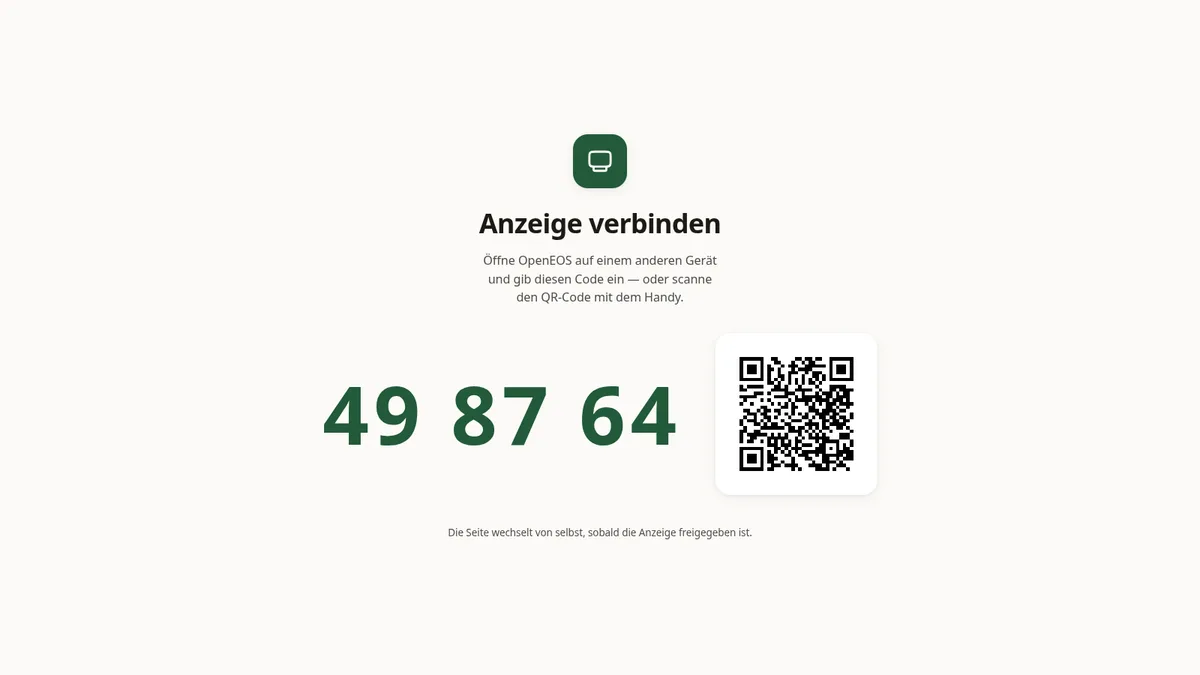
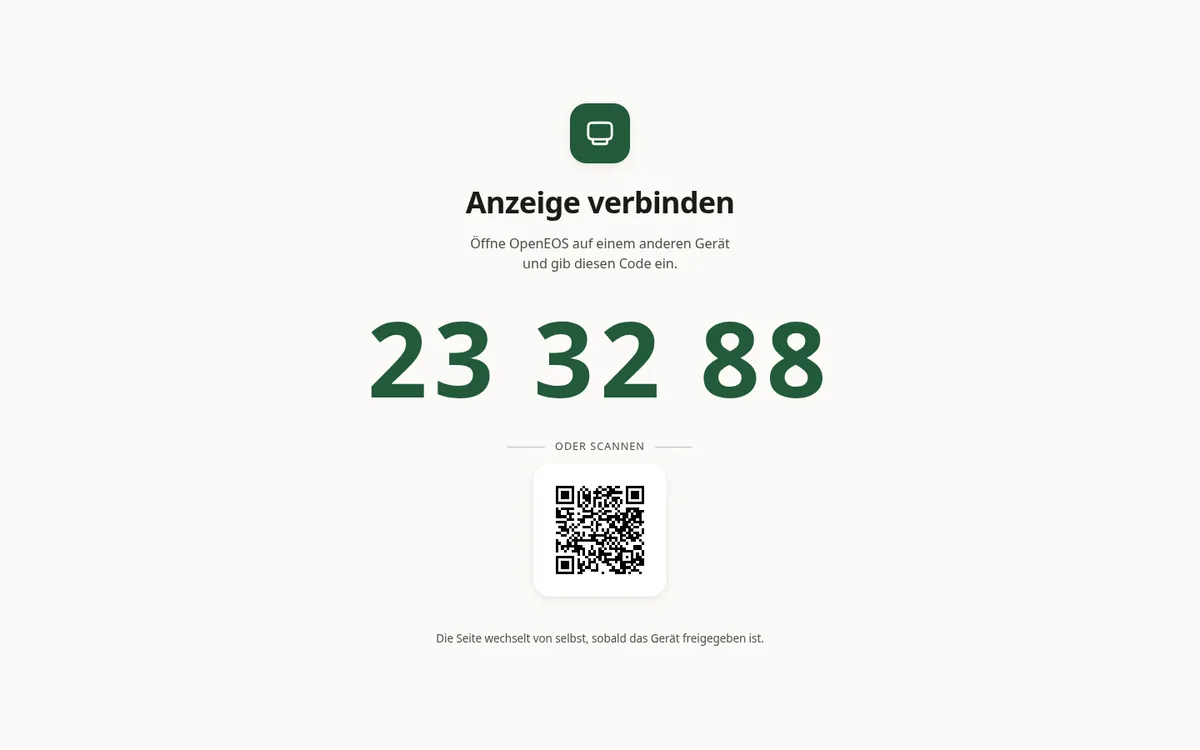
feat: give the screenshots their own page and tighten the spacing
Every section brought its own vertical padding, anywhere from 80 to
160px, and because a section's bottom meets the next one's top, up to
216px of nothing sat between two of them. One shared measure now, and
subpages clear the fixed header by exactly its height plus that measure
instead of a flat 132px.

The illustrated strip and the screenshots move to /screens. Together
they took more of the landing page than everything else, and someone
who wants to see the product looks for it deliberately — the same
reasoning as the changelog.

New heading for the strip, fresh captures for the screenshots: the
pairing screen and the dashboard have both changed since the last ones.

Changed region(s): [[0.3083, 0.1244, 0.7092, 0.7156], [0.2467, 0.56, 0.6167, 0.8089], [0.37, 0.84, 0.6475, 0.8711]]

diff --git a/src/styles/landing.css b/src/styles/landing.css
@@ -26,6 +26,12 @@
 
   --max: 1280px;
   --pad: clamp(20px, 4vw, 56px);
+  /* Ein Mass fuer alle Abschnitte. Vorher trug jeder seinen eigenen Wert
+     zwischen 80 und 160px, und weil sich oberer und unterer addieren,
+     standen zwischen zwei Abschnitten bis zu 216px Leere. */
+  --sec-y: clamp(36px, 4.5vw, 60px);
+  /* Abstand unter der fixierten Navigation auf Unterseiten. */
+  --nav-h: 66px;
 
   background: var(--paper);
   color: var(--ink);
@@ -319,7 +325,7 @@
 /* ============================= HERO ============================= */
 .landing .hero {
   position: relative;
-  padding: clamp(40px, 6vw, 80px) var(--pad) 0;
+  padding: var(--sec-y) var(--pad) 0;
   max-width: var(--max);
   margin: 0 auto;
 }
@@ -558,7 +564,7 @@
 /* ============================= FEATURES ============================= */
 .landing .features {
   background: var(--paper-2);
-  padding: 0 0 clamp(60px, 9vw, 120px);
+  padding: 0 0 var(--sec-y);
   max-width: none;
   margin: clamp(48px, 7vw, 96px) 0 0;
   border-top: 1px solid color-mix(in oklab, var(--ink) 10%, transparent);
@@ -927,7 +933,7 @@
 }
 
 /* ============================= PRICING ============================= */
-.landing .pricing { padding: 0 var(--pad) clamp(60px, 9vw, 120px); max-width: var(--max); margin: 0 auto; }
+.landing .pricing { padding: 0 var(--pad) var(--sec-y); max-width: var(--max); margin: 0 auto; }
 .landing .plans { display: grid; grid-template-columns: repeat(3, 1fr); gap: 14px; }
 @media (max-width: 900px) { .landing .plans { grid-template-columns: 1fr; } }
 
@@ -1085,7 +1091,7 @@
 .landing .oss {
   background: var(--ink);
   color: var(--paper);
-  padding: clamp(80px, 12vw, 140px) var(--pad);
+  padding: var(--sec-y) var(--pad);
   margin: clamp(40px, 6vw, 80px) 0 0;
   text-align: center;
 }
@@ -1178,7 +1184,7 @@
 /* ============================= CTA ============================= */
 .landing .cta-block {
   max-width: var(--max); margin: 0 auto;
-  padding: clamp(80px, 12vw, 160px) var(--pad) clamp(60px, 9vw, 120px);
+  padding: var(--sec-y) var(--pad);
   text-align: center;
 }
 .landing .cta-block h2 { font-size: clamp(44px, 7vw, 96px); line-height: 0.95; letter-spacing: -.03em; font-weight: 800; margin: 0; }
@@ -1844,7 +1850,7 @@
    gelesen, nicht überflogen. */
 .landing .changelog,
 .landing .feedback {
-  padding: 132px 0 96px;
+  padding: calc(var(--nav-h) + var(--sec-y)) 0 var(--sec-y);
 }
 /* Die Titelgroesse der Startseite traegt eine Schlagzeile, keine
    Textseite: 84px brachen hier auf drei Zeilen um. */
@@ -2062,7 +2068,7 @@
 /* ===================== BILDSCHIRMFOTOS =====================
    Die Aufnahmen tragen den Abschnitt, der Text ordnet sie nur ein. */
 .landing .screens {
-  padding: 96px 0;
+  padding: var(--sec-y) 0;
 }
 .landing .screens__grid {
   max-width: var(--max);
@@ -2117,7 +2123,7 @@
    Fünf Panels als Reihe. Auf schmalen Geräten wird daraus ein
    Wischstreifen statt fünf untereinander gestapelter Hochformate. */
 .landing .journey {
-  padding: 96px 0;
+  padding: var(--sec-y) 0;
 }
 .landing .journey__strip {
   list-style: none;

diff --git a/src/app/[locale]/screens/page.tsx b/src/app/[locale]/screens/page.tsx
@@ -1,0 +1,39 @@
+import type { Metadata } from 'next';
+import { getTranslations, setRequestLocale } from 'next-intl/server';
+
+import { Header } from '@/components/layout/Header';
+import { Footer } from '@/components/layout/Footer';
+import { Journey } from '@/components/sections/Journey';
+import { Screens } from '@/components/sections/Screens';
+
+export async function generateMetadata(): Promise<Metadata> {
+  const t = await getTranslations('screens');
+  return { title: t('metaTitle'), description: t('sub') };
+}
+
+/**
+ * Eigene Seite für die Bilder.
+ *
+ * Auf der Startseite nahmen Bildstrecke und Bildschirmfotos zusammen mehr
+ * Platz ein als alles andere. Wer wissen will, wie es aussieht, sucht das
+ * gezielt — wie bei den Neuerungen auch.
+ */
+export default async function ScreensPage({
+  params,
+}: {
+  params: Promise<{ locale: string }>;
+}) {
+  const { locale } = await params;
+  setRequestLocale(locale);
+
+  return (
+    <>
+      <Header />
+      <main className="screens-page">
+        <Journey />
+        <Screens />
+      </main>
+      <Footer />
+    </>
+  );
+}

diff --git a/src/app/[locale]/page.tsx b/src/app/[locale]/page.tsx
@@ -3,8 +3,6 @@ import { Header } from "@/components/layout/Header";
 import { Footer } from "@/components/layout/Footer";
 import { Hero } from "@/components/sections/Hero";
 import { Features } from "@/components/sections/Features";
-import { Journey } from "@/components/sections/Journey";
-import { Screens } from "@/components/sections/Screens";
 import { Pricing, type PricingData } from "@/components/sections/Pricing";
 import { OpenSource } from "@/components/sections/OpenSource";
 import { CTA } from "@/components/sections/CTA";
@@ -42,8 +40,6 @@ export default async function HomePage({
       <main>
         <Hero />
         <Features />
-        <Journey />
-        <Screens />
         <Pricing pricingData={pricingData} />
         <OpenSource />
         <CTA />

diff --git a/src/components/layout/Header.tsx b/src/components/layout/Header.tsx
@@ -33,6 +33,7 @@ export function Header() {
           <nav className="nav__links" aria-label="Hauptnavigation">
             <Link href="/#features">{t("features")}</Link>
             <Link href="/#pricing">{t("pricing")}</Link>
+            <Link href="/screens">{t("screens")}</Link>
             <Link href="/#open-source">{t("openSource")}</Link>
             <Link href="/changelog">{t("changelog")}</Link>
           </nav>

diff --git a/src/components/layout/Footer.tsx b/src/components/layout/Footer.tsx
@@ -21,6 +21,7 @@ export function Footer() {
           <div>
             <b>{t("product")}</b>
             <Link href="/#features">{t("features")}</Link>
+            <Link href="/screens">{t("screens")}</Link>
             <Link href="/#pricing">{t("pricing")}</Link>
             <ContactTrigger type="demo">{t("demo")}</ContactTrigger>
           </div>
